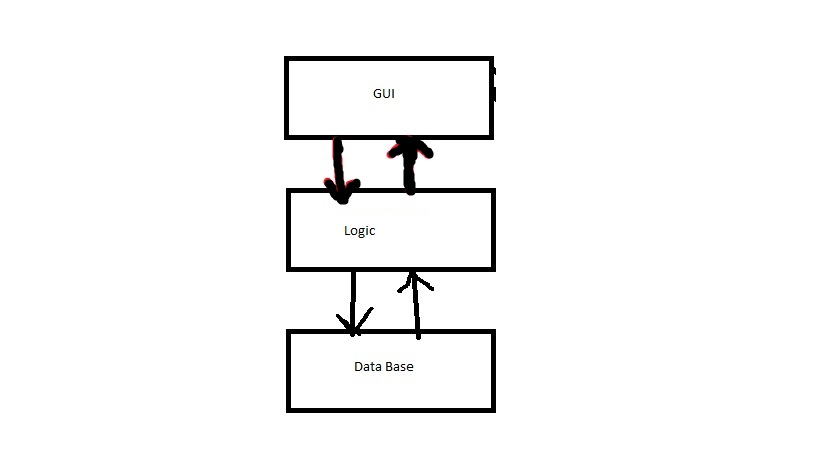
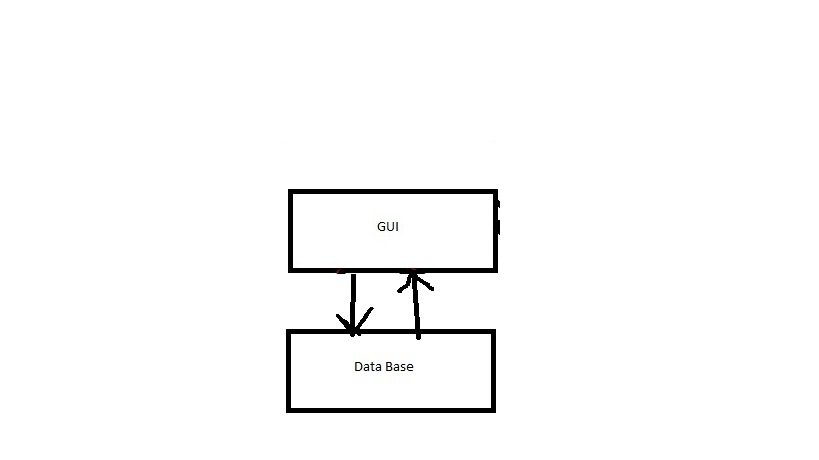
Part3

Changed region(s): [[0.3358, 0.1217, 0.6105, 0.6087], [0.3968, 0.487, 0.4884, 0.5174], [0.4579, 0.1826, 0.4884, 0.213]]

diff --git a/Lab4/Lab4.md b/Lab4/Lab4.md
@@ -14,14 +14,22 @@
     * Валидация - проверка всех вводимых данных
     * Управление исключениями - перехват исключений разных слоях приложения и уведомление об их наличии
     * Управление конфигурацией - данные пользователя будут сохряняться для последующего использования  
-6. Структурная схема приложения
+6. Структурная схема приложения:
     ![](https://github.com/TRTPOteamMoon/Dietpitanie/blob/master/Lab4/Scheme.jpg)
 # Часть 2.
 ## Анализ архитектуры
-1. 
-2. Текущая архитектура 
-![](https://github.com/TRTPOteamMoon/Dietpitanie/blob/master/Lab4/SchemeModified.jpg)
-3. Сгенерирования диаграмма классов
+1. Проведём анализ текущеё архитектуры, выделив основные структурные блоки
+2. Текущая архитектура: 
+![](https://github.com/TRTPOteamMoon/Dietpitanie/blob/master/Lab4/Scheme2.jpg)
+3. Сгенерирования диаграмма классов(после рефакторинга):
 ![](https://github.com/TRTPOteamMoon/Dietpitanie/blob/master/Lab4/Dietpitanie.jpg)
 # Часть 3.
 ## Сравнение и рефакторинг
+1. В "As is" нет отдельных блоков для работы с базой данных и логикой "To be"
+2. Для улучшения текущей архитектуры были предприняты следующие меры по улучшению архитектуры:
+* Выделение классов
+* Инкапсуляция поля
+* Извлечение метода
+* Замена переменной вызовом метода
+3. В ходе рефакторинга структурная схема приняла следующий вид:
+![](https://github.com/TRTPOteamMoon/Dietpitanie/blob/master/Lab4/SchemeModified.jpg)
